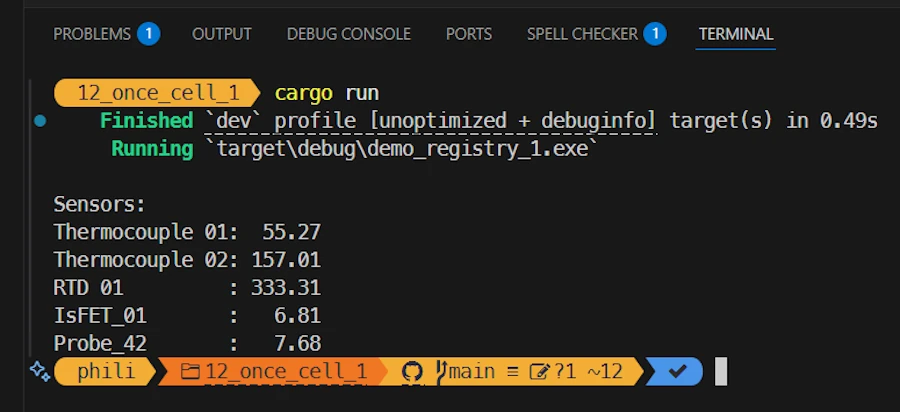
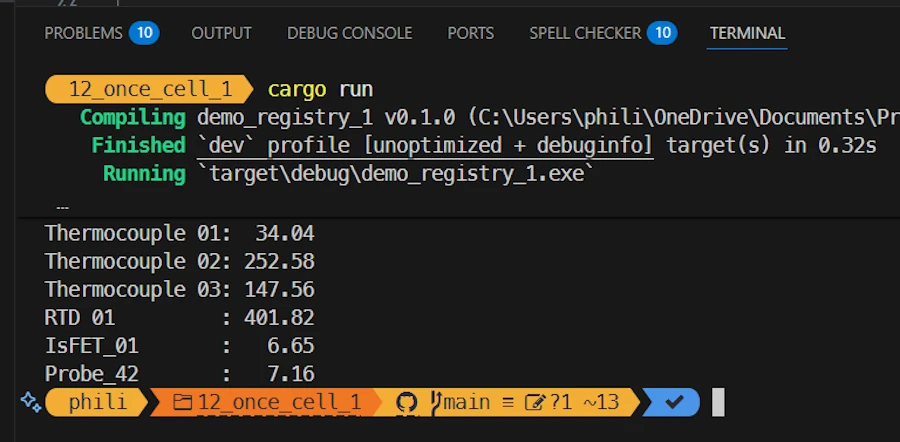
Morning review

diff --git a/docs/06_programmation/rust/015_traits/traits_04.md b/docs/06_programmation/rust/015_traits/traits_04.md
@@ -2,12 +2,12 @@
 published: true
 lang: en-US
 layout: default
-title: "Rust Traits: Defining Character - 03"
+title: "Rust Traits: Defining Character - 04"
 description: "From basic syntax to building plugins with once_cell and organizing Rust projects."
 parent: "Rust"
 #math: mathjax
 date               : 2025-09-14 14:00:00
-last_modified_date : 2025-09-16 15:00:00
+last_modified_date : 2025-09-17 07:00:00
 ---
 
 
@@ -503,13 +503,15 @@ println!("Thermocouple 01: {:6.2}", thermo_01.get_temp());
 
 ## Once Cell 2/3
 
-Where we have 2 registries. One for temperature sensors and another for pH
+Where we have 2 registries. One for temperature sensors and another for pH sensors.
 
 ### Running the demo code
 {: .no_toc }
 
 * Right click on `assets/12_once_cell_1`
 * Select the option "Open in Integrated Terminal"
+* `cargo add rand`
+* `cargo add once_cell`
 * `cargo run`
 
 <div align="center">
@@ -522,14 +524,62 @@ Where we have 2 registries. One for temperature sensors and another for pH
 ### Explanations 1/2 
 {: .no_toc }
 
+People were so pleased with the previous POC that they ask us a new version   
+1. with not only temperature sensors but also, other kinds of sensors : the mentioned pH meter, strain gauges, flow meter... 
+1. with multiple references under a kind of sensor. The idea is to show that under sensor/temperature/thermocouple we can have termocoupleX, termocoupleY...      
+1. with multiple instances of the same sensor reference because in a plant you can easily have 100 temperature sensors of the same reference.
 
+No worry. This section is short and easy because we already know all we need to know. 
+
+If you know nothing about sensors, below I added pH sensors in a specific directory. pH sensors help to measure the acidity of a solution. I added 2 kinds of pH meters : probe and ISFET. The idea is to answer point 1 above. Below, think about the `ph` directory as a copy/paste/rename of the temperature directory. Nothing more. The hub files, traits and implementation are used exactly the same way.  
+
+Note that in the thermocouple directory we now have `thermocouple_128` adn `thermocouple_256`. Two different thermocouple references. This is to answer point 2 above.
+
+See below the file hierarchy of the project :    
 
 
 ### Show me the code!
 {: .no_toc }
 
-```rust
-
+```
+.
+│   .gitignore
+│   Cargo.lock
+│   Cargo.toml
+│
+├───src
+│   │   lib.rs
+│   │   main.rs
+│   │   sensors.rs
+│   │
+│   └───sensors
+│       │   ph.rs
+│       │   temperature.rs
+│       │
+│       ├───ph
+│       │   │   isfet.rs
+│       │   │   ph_sensor.rs
+│       │   │   probe.rs
+│       │   │
+│       │   ├───isfet
+│       │   │       isfet_1024.rs
+│       │   │
+│       │   └───probe
+│       │           probe_2048.rs
+│       │
+│       └───temperature
+│           │   rtd.rs
+│           │   temperature_sensor.rs
+│           │   thermocouple.rs
+│           │
+│           ├───rtd
+│           │       rtd_512.rs
+│           │
+│           └───thermocouple
+│                   thermocouple_128.rs
+│                   thermocouple_256.rs
+│
+└───target
 ```
 
 
@@ -538,9 +588,113 @@ Where we have 2 registries. One for temperature sensors and another for pH
 
 
 
+In `main.rs` we still have the `sensors::register();` function call. The creation of 
+* `thermo_01` and `thermo_02` demonstratess point 2
+* `thermo_02` and `thermo_03` demonstrates point 3
+* `isfet_01` and `probe_42` demonstrates point1  
+
+```rust
+use demo_registry_1::sensors;
+use demo_registry_1::sensors::ph::ph_sensor;
+use demo_registry_1::sensors::temperature::temperature_sensor;
+
+fn main() {
+    sensors::register();
+
+    let thermo_01 = temperature_sensor::make_sensor("Thermocouple_type_128").expect("Unknown sensor");
+    let thermo_02 = temperature_sensor::make_sensor("Thermocouple_type_256").expect("Unknown sensor");
+    let thermo_03 = temperature_sensor::make_sensor("Thermocouple_type_256").expect("Unknown sensor");
+
+    println!("\nSensors:");
+    println!("Thermocouple 01: {:6.2}", thermo_01.get_temp());
+    println!("Thermocouple 02: {:6.2}", thermo_02.get_temp());
+    println!("Thermocouple 03: {:6.2}", thermo_03.get_temp());
+
+    let rtd_01 = temperature_sensor::make_sensor("Rtd_type_512").expect("Unknown sensor");
+    println!("RTD 01         : {:6.2}", rtd_01.get_temp());
+
+    let isfet_01 = ph_sensor::make_sensor("IsFET_type_1024").expect("Unknown sensor");
+    println!("IsFET_01       : {:6.2}", isfet_01.get_ph());
+
+    let probe_42 = ph_sensor::make_sensor("Probe_type_2048").expect("Unknown sensor");
+    println!("Probe_42       : {:6.2}", probe_42.get_ph());
+}
+```
+
+You should be able to navigate withing the project as we did before.
+
+One thing however. In `src/sensors/temperature/temperature_sensor.rs` we have :
+
+```rust
+// temperature_sensor.rs
+use once_cell::sync::Lazy;
+use std::collections::HashMap;
+use std::sync::Mutex;
+
+pub trait TemperatureSensor {
+    fn get_temp(&self) -> f64;
+}
+
+// Type alias for a constructor function returning a boxed sensor
+type Constructor = fn() -> Box<dyn TemperatureSensor>;
+
+// Global registry of sensor constructors
+pub static TEMPERATURE_SENSOR_REGISTRY: Lazy<Mutex<HashMap<&'static str, Constructor>>> = Lazy::new(|| Mutex::new(HashMap::new()));
+
+// Called by sensors
+pub fn register_sensor(name: &'static str, constructor: Constructor) {
+    let mut map = TEMPERATURE_SENSOR_REGISTRY.lock().expect("TEMPERATURE_SENSOR_REGISTRY mutex poisoned");
+    map.insert(name, constructor);
+}
+
+// Called by binaries (main.rs, examples, tests...) to creates a sensor by name
+pub fn make_sensor(name: &str) -> Option<Box<dyn TemperatureSensor>> {
+    let map = TEMPERATURE_SENSOR_REGISTRY.lock().expect("TEMPERATURE_SENSOR_REGISTRY mutex poisoned");
+    map.get(name).map(|ctor| ctor())
+}
+
+```
+While in `src/sensors/ph/ph_sensor.rs` we have :
+
+```rust
+// ph_sensor.rs
+use once_cell::sync::Lazy;
+use std::collections::HashMap;
+use std::sync::Mutex;
+
+pub trait PhSensor {
+    fn get_ph(&self) -> f64;
+}
+
+// Type alias for a constructor function returning a boxed sensor
+type Constructor = fn() -> Box<dyn PhSensor>;
+
+// Global registry of sensor constructors
+pub static PH_SENSOR_REGISTRY: Lazy<Mutex<HashMap<&'static str, Constructor>>> = Lazy::new(|| Mutex::new(HashMap::new()));
+
+// Called by sensors
+pub fn register_sensor(name: &'static str, constructor: Constructor) {
+    let mut map = PH_SENSOR_REGISTRY.lock().expect("PH_SENSOR_REGISTRY mutex poisoned");
+    map.insert(name, constructor);
+}
+
+// Called by binaries (main.rs, examples, tests...) to creates a sensor by name
+pub fn make_sensor(name: &str) -> Option<Box<dyn PhSensor>> {
+    let map = PH_SENSOR_REGISTRY.lock().expect("PH_SENSOR_REGISTRY mutex poisoned");
+    map.get(name).map(|ctor| ctor())
+}
+```
+
+Both used `Mutex` and not `RwLock` but this is not the point. No, the point I want to underline is that one create a static global `TEMPERATURE_SENSOR_REGISTRY` while the other one create `PH_SENSOR_REGISTRY`. This means that the application ends up with 2 registries in memory. This might be smart if we have lot of temperature sensors and pH sensors and if we want to shorten look up time. If the look up time is not an issue we could create a unique `SENSOR_REGISTRY`. Obviously this one should be created in `src/sensors.rs` (the common ancestor of all the sensors).
+
+Other than that, I think we're done.
+
+
 
 ### Exercise
 {: .no_toc }
+
+1. Copy and paste the project directory. Modify the code so that it uses a unique `SENSOR_REGISTRY` global registry for all sensors.
 
 
 
@@ -588,18 +742,20 @@ Where we have 2 registries. One for temperature sensors and another for pH
 
 ## Once Cell 3/3
 
-One sentence
+Where 
 
 ### Running the demo code
 {: .no_toc }
 
-* Right click on `assets/?????`
+* Right click on `assets/13_once_cell_2`
 * Select the option "Open in Integrated Terminal"
+* `cargo add rand`
+* `cargo add once_cell`
 * `cargo run`
 
 <div align="center">
-<img src="./assets/imgXX.webp" alt="" width="450" loading="lazy"/><br/>
-<span>Comment about the picture above</span>
+<img src="./assets/img36.webp" alt="" width="450" loading="lazy"/><br/>
+<!-- <span>Comment about the picture above</span> -->
 </div>
 
 
@@ -614,7 +770,59 @@ One sentence
 {: .no_toc }
 
 ```rust
-
+C:.
+│   .gitignore
+│   Cargo.lock
+│   Cargo.toml
+│
+├───src
+│   │   actuators.rs
+│   │   lib.rs
+│   │   main.rs
+│   │   sensors.rs
+│   │
+│   ├───actuators
+│   │   │   electric.rs
+│   │   │
+│   │   └───electric
+│   │       │   electric_actuator.rs
+│   │       │   servo_motor.rs
+│   │       │   solenoid.rs
+│   │       │
+│   │       ├───servo_motor
+│   │       │       servo_motor_01.rs
+│   │       │
+│   │       └───solenoid
+│   │               solenoid_101.rs
+│   │
+│   └───sensors
+│       │   ph.rs
+│       │   temperature.rs
+│       │
+│       ├───ph
+│       │   │   isfet.rs
+│       │   │   ph_sensor.rs
+│       │   │   probe.rs
+│       │   │
+│       │   ├───isfet
+│       │   │       isfet_1024.rs
+│       │   │
+│       │   └───probe
+│       │           probe_2048.rs
+│       │
+│       └───temperature
+│           │   rtd.rs
+│           │   temperature_sensor.rs
+│           │   thermocouple.rs
+│           │
+│           ├───rtd
+│           │       rtd_512.rs
+│           │
+│           └───thermocouple
+│                   thermocouple_128.rs
+│                   thermocouple_256.rs
+│
+└───target
 ```
 
 
